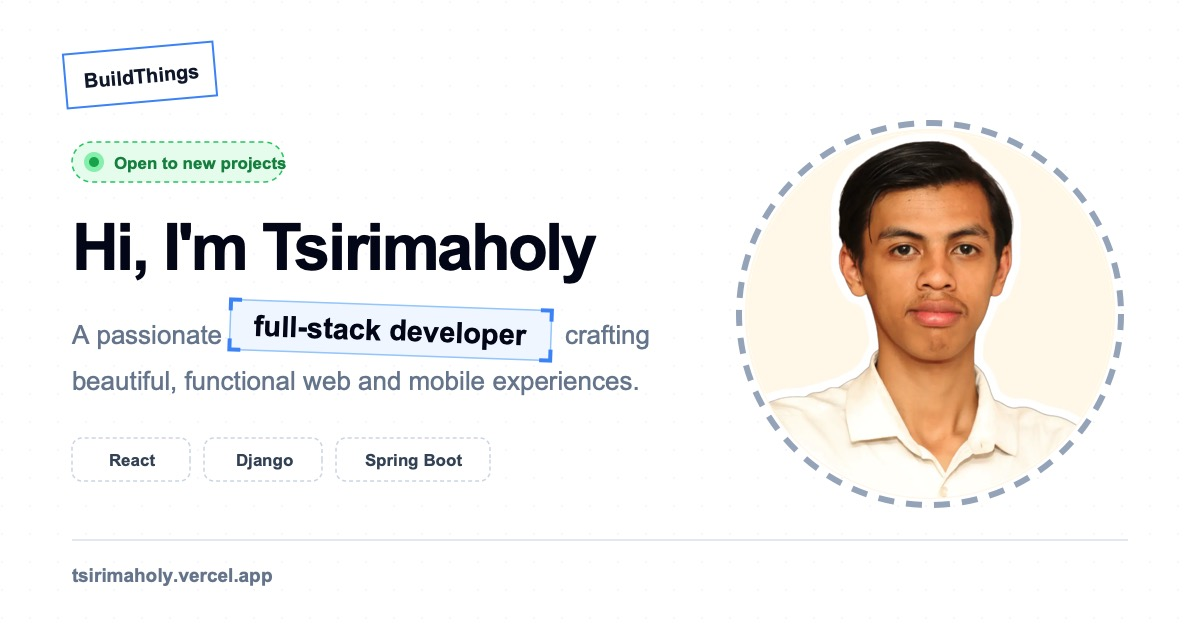
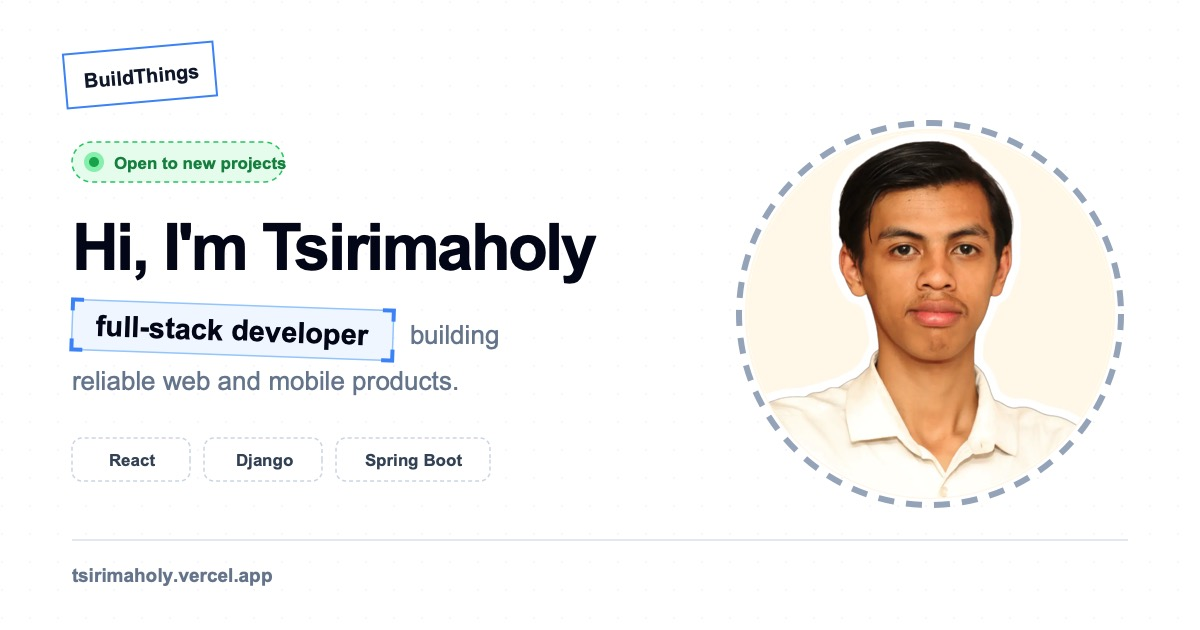
feat: refresh hero positioning and visual hierarchy

Changed region(s): [[0.0617, 0.4524, 0.555, 0.6333]]

diff --git a/app/components/Hero.tsx b/app/components/Hero.tsx
@@ -4,14 +4,25 @@ import {
 	FileDown,
 	Github,
 	Linkedin,
-	Mail,
 	MousePointer2,
 } from "lucide-react";
 import { motion } from "motion/react";
 import { useEffect, useRef, useState } from "react";
-import { FaXTwitter } from "react-icons/fa6";
 import { Link } from "react-router";
 import { Button } from "~/components/ui/button";
+
+const contacts = [
+	{
+		href: "https://github.com/Tsirimaholy",
+		icon: Github,
+		label: "GitHub",
+	},
+	{
+		href: "https://linkedin.com/in/tsirimaholy",
+		icon: Linkedin,
+		label: "LinkedIn",
+	},
+];
 
 export function Hero() {
 	const [resumeMenuOpen, setResumeMenuOpen] = useState(false);
@@ -39,123 +50,74 @@ export function Hero() {
 			document.removeEventListener("keydown", onKey);
 		};
 	}, [resumeMenuOpen]);
-	const contacts = [
-		{
-			href: "https://github.com/Tsirimaholy",
-			icon: Github,
-			label: "GitHub",
-		},
-		{
-			href: "https://linkedin.com/in/tsirimaholy",
-			icon: Linkedin,
-			label: "LinkedIn",
-		},
-		{
-			href: "mailto:tsirimaholy.h@gmail.com",
-			icon: Mail,
-			label: "Email",
-		},
-		{
-			href: "https://x.com/tsirimaholy",
-			icon: FaXTwitter,
-			label: "X",
-		},
-	];
 	return (
 		<section
 			id="hero"
-			className="relative flex min-h-screen flex-col items-center justify-center overflow-hidden pt-24 md:pt-0"
+			className="relative flex min-h-[100svh] items-center overflow-hidden px-6 pt-28 pb-16 md:pt-32 md:pb-20"
 		>
-			{/* Animated gradient background */}
-			{/* <div className="absolute inset-0 bg-gradient-to-br from-background via-primary/10 to-green-400/10 animate-gradient" /> */}
-
-			{/* Subtle animated circles */}
-			{/* <div className="absolute -top-40 -right-40 h-96 w-96 rounded-full bg-primary/20 blur-3xl animate-pulse" /> */}
-			{/* <div className="absolute -bottom-40 -left-40 h-96 w-96 rounded-full bg-green-500/20 blur-3xl animate-pulse delay-700" /> */}
-
-			<div className="relative flex flex-col-reverse md:flex-row items-center px-6">
-				{/* Text Content */}
+			<div
+				className="pointer-events-none absolute inset-0 opacity-40"
+				style={{
+					backgroundImage:
+						"radial-gradient(circle at center, rgb(148 163 184 / 0.22) 1px, transparent 1px)",
+					backgroundSize: "28px 28px",
+				}}
+			/>
+			<div className="relative mx-auto grid min-w-0 w-full max-w-6xl items-center gap-14 lg:grid-cols-[minmax(0,1fr)_23rem] lg:gap-20">
 				<motion.div
 					initial={{ x: -20 }}
-					animate={{ opacity: 1, x: 0 }}
-					transition={{ duration: 0.3 }}
-					className="flex flex-col items-center md:items-start text-center md:text-left space-y-6"
+					animate={{ x: 0 }}
+					transition={{ duration: 0.45 }}
+					className="flex min-w-0 w-full flex-col items-center text-center lg:items-start lg:text-left"
 				>
-					<div className="relative">
-						<h1 className="text-4xl font-extrabold tracking-tighter sm:text-5xl md:text-6xl lg:text-7xl leading-tight font-shadow-into-light">
-							Hi, I'm <span>Tsirimaholy</span>
-						</h1>
-						<OportunitieOpeningBadge />
-					</div>
+					<AvailabilityBadge />
+					<h1 className="mt-6 max-w-full text-4xl font-extrabold leading-[0.95] tracking-[-0.055em] text-slate-950 font-shadow-into-light sm:text-6xl lg:text-7xl">
+						Hi, I'm <span className="block sm:inline">Tsirimaholy.</span>
+					</h1>
 
 					<motion.div
-						initial={{ opacity: 1, y: 20 }}
-						animate={{ opacity: 1, y: 0 }}
+						initial={{ y: 16 }}
+						animate={{ y: 0 }}
 						transition={{ duration: 0.6, delay: 0.2 }}
-						className="max-w-[600px] text-lg text-muted-foreground sm:text-xl"
+						className="mt-7 w-full max-w-2xl text-xl leading-relaxed text-slate-600 sm:text-2xl"
 					>
-						A passionate{" "}
 						<motion.div
-							initial={{ opacity: 0, y: 20 }}
-							animate={{ opacity: 1, y: 0 }}
-							transition={{ duration: 0.6, delay: 1 }}
-							className="relative inline-block p-1 mr-2 border border-blue-400/20 bg-blue-400/10 rotate-4"
+							initial={{ rotate: -2 }}
+							animate={{ rotate: 1 }}
+							transition={{ duration: 0.45, delay: 0.55 }}
+							className="relative mx-auto mb-2 block w-fit border border-blue-300 bg-blue-50 px-2 py-0.5 text-slate-950 sm:mr-2 sm:mb-0 sm:inline-block"
 						>
 							<div className="absolute -top-0.5 -left-0.5 border-t-3 border-l-3 border-blue-400 w-3 h-3"></div>
 							<div className="absolute -bottom-0.5 -right-0.5 border-b-3 border-r-3 border-blue-400 w-3 h-3"></div>
 							<div className="absolute -top-0.5 -right-0.5 border-t-3 border-r-3 border-blue-400 w-3 h-3"></div>
 							<div className="absolute -bottom-0.5 -left-0.5 border-b-3 border-l-3 border-blue-400 w-3 h-3"></div>
-							<strong className="md:text-2xl decoration-2 text-black">
-								full-stack developer
-							</strong>{" "}
-							<MousePointer2 className="absolute right-0 text-black" />
+							<strong>Full-stack developer</strong>
+							<MousePointer2 className="absolute -right-3 -bottom-4 h-5 w-5 text-slate-950" />
 						</motion.div>
-						crafting beautiful and functional web experiences.
-						{/* <Pencil size={17} className="ml-1 inline animate-bounce [animation-duration:2s]" /> */}
+						building reliable web and mobile products.
 					</motion.div>
 
-					{/* Social Links */}
-					<motion.div
-						initial={{ opacity: 0, y: 20 }}
-						animate={{ opacity: 1, y: 0 }}
-						transition={{ duration: 0.6, delay: 0.4 }}
-						className="flex gap-4"
-					>
-						{contacts.map(({ href, icon: Icon, label }) => (
-							<Button
-								key={href}
-								variant="outline"
-								size="icon"
-								className="shadow-2xl  hover:scale-110 hover:shadow-lg hover:shadow-primary/20 transition-all duration-300 backdrop-blur-sm sketchy-border-sm shadow-sketchy-md"
-								asChild
-							>
-								<Link
-									to={href}
-									target="_blank"
-									rel="noopener noreferrer"
-									aria-label={label}
-								>
-									<Icon className="h-5 w-5" />
-								</Link>
-							</Button>
-						))}
-					</motion.div>
+					<p className="mt-5 w-full max-w-xl text-base leading-7 text-slate-600 sm:text-lg">
+						I help startups launch MVPs, improve existing platforms, and solve
+						performance problems with React, Django, Spring Boot, and AWS.
+					</p>
 
-					<div className="flex gap-4 mt-10">
+					<div className="mt-8 flex flex-wrap items-center justify-center gap-3 lg:justify-start">
 						<motion.div
-							initial={{ opacity: 0, y: 20 }}
-							animate={{ opacity: 1, y: 0 }}
-							transition={{ duration: 0.6, delay: 0.6 }}
-							className="flex items-center gap-4"
+							initial={{ y: 20 }}
+							animate={{ y: 0 }}
+							transition={{ duration: 0.6, delay: 0.4 }}
+							className="flex flex-wrap items-center justify-center gap-3 lg:justify-start"
 						>
-							<Button asChild size="lg">
+							<Button asChild size="lg" className="shadow-sketchy-md">
 								<Link to="#contact">
-									Let's work together
+									Start a project
 									<ArrowDown className="animate-bounce" size={18} />
 								</Link>
 							</Button>
 							<div className="relative" ref={resumeMenuRef}>
 								<Button
+									size="lg"
 									variant="outline"
 									onClick={() => setResumeMenuOpen((open) => !open)}
 									aria-haspopup="menu"
@@ -195,11 +157,37 @@ export function Hero() {
 							</div>
 						</motion.div>
 					</div>
+
+					<motion.div
+						initial={{ y: 12 }}
+						animate={{ y: 0 }}
+						transition={{ duration: 0.6, delay: 0.55 }}
+						className="mt-7 flex items-center gap-5 text-sm font-medium text-slate-600"
+					>
+						<span className="text-slate-400">Find me on</span>
+						{contacts.map(({ href, icon: Icon, label }) => (
+							<Link
+								key={href}
+								to={href}
+								target="_blank"
+								rel="noopener noreferrer"
+								className="inline-flex items-center gap-1.5 transition-colors hover:text-primary"
+							>
+								<Icon className="h-4 w-4" />
+								{label}
+							</Link>
+						))}
+					</motion.div>
 				</motion.div>
 
-				{/* Profile Photo */}
-				<div className="relative">
-					<div className="w-54 h-54 md:w-60 md:h-60 rounded-full overflow-hidden border-4 border-dashed border-gray-400 shadow-sketchy-lg">
+				<motion.div
+					initial={{ scale: 0.9, rotate: 3 }}
+					animate={{ scale: 1, rotate: 0 }}
+					transition={{ duration: 0.6, delay: 0.15, type: "spring" }}
+					className="relative mx-auto lg:col-start-2 lg:row-start-1"
+				>
+					<div className="absolute inset-3 rounded-full bg-amber-50" />
+					<div className="relative h-64 w-64 overflow-hidden rounded-full border-4 border-dashed border-slate-400 bg-amber-50 shadow-sketchy-lg md:h-72 md:w-72 lg:h-96 lg:w-96">
 						<img
 							src="/tsirimaholy.webp"
 							alt="Tsirimaholy Harison Razanapanala"
@@ -207,41 +195,26 @@ export function Hero() {
 							loading="eager"
 							fetchPriority="high"
 							decoding="async"
-							width="320"
-							height="320"
+							width="384"
+							height="384"
 						/>
 					</div>
-				</div>
+					<div className="absolute -right-3 bottom-8 -rotate-3 border-2 border-slate-900 bg-white px-4 py-2 text-sm font-bold text-slate-900 shadow-sketchy-md">
+						Web · Mobile · APIs
+					</div>
+				</motion.div>
 			</div>
 		</section>
 	);
 }
-function OportunitieOpeningBadge() {
+function AvailabilityBadge() {
 	return (
-		<>
-			<div className="text-sm inline-flex items-center gap-1.5 px-3 py-1 rounded-full border border-dashed border-green-500 font-medium bg-green-300/30 text-green-700">
-				{/* Round dot */}
-				<div className="relative border-green-600/70 bg-green-300 rounded-full manual-ping">
-					{/* <div className="absolute inset-0 rounded-full bg-green-300 manual-ping"></div> */}
-					<div className="size-1.5 bg-green-700 rounded-full z-10 m-0.5"></div>
-				</div>
-				Open to new projects
-			</div>
-			<style>{`
-  			@keyframes manual-ping {
-  				0% {
-  			    transform: scale(1);
-  					opacity: 1;
-  				}
-  				80%, 100% {
-  				  transform: scale(1.7);
-  					opacity: 0.5;
-  				}
-  			}
-  			.manual-ping {
-  				animation: manual-ping 1.2s cubic-bezier(0, 0, 0.2, 1) infinite;
-  			}
-			`}</style>
-		</>
+		<div className="inline-flex items-center gap-2 rounded-full border border-dashed border-green-500 bg-green-100/70 px-3 py-1.5 text-sm font-semibold text-green-700">
+			<span className="relative flex h-2.5 w-2.5">
+				<span className="absolute inline-flex h-full w-full animate-ping rounded-full bg-green-400 opacity-60" />
+				<span className="relative inline-flex h-2.5 w-2.5 rounded-full bg-green-600" />
+			</span>
+			Open to new projects
+		</div>
 	);
 }

diff --git a/app/routes/index.tsx b/app/routes/index.tsx
@@ -46,10 +46,9 @@ export const loader = async ({ request }: Route.LoaderArgs) => {
 };
 
 export const meta: MetaFunction = () => {
-	const title =
-		"Tsirimaholy Harison Razanapanala | Senior Full-Stack Developer";
+	const title = "Tsirimaholy Harison Razanapanala | Full-Stack Developer";
 	const description =
-		"Senior Full-Stack Developer helping startups build MVPs and improve web and mobile products with React, Django, Spring Boot, AWS, and PostgreSQL.";
+		"Full-Stack Developer helping startups launch MVPs, improve web and mobile products, and solve performance problems with React, Django, Spring Boot, and AWS.";
 	const image = `${SITE_URL}/og-image.jpg`;
 
 	// Generate base meta tags
@@ -65,7 +64,7 @@ export const meta: MetaFunction = () => {
 	// Generate structured data for person
 	const personData: StructuredDataPerson = {
 		name: "Tsirimaholy Harison Razanapanala",
-		jobTitle: "Senior Full-Stack Developer",
+		jobTitle: "Full-Stack Developer",
 		description,
 		url: `${SITE_URL}/`,
 		image: `${SITE_URL}/tsirimaholy.webp`,

diff --git a/app/components/Projects.tsx b/app/components/Projects.tsx
@@ -45,7 +45,7 @@ export function Projects() {
 			liveUrl: "https://praticiens.aligneursfrancais.com/notre-logiciel/",
 			githubUrl: "",
 			detailedDescription:
-				"Senior Fullstack Developer at Aligneurs Français, a French health-tech company crafting invisible dental aligners made in France. I build and improve AF Setup, the web and mobile platform (iOS/Android) that dentists and orthodontists use to manage their patients' aligner treatments end to end, and AF Academy, the e-learning platform for practitioners.",
+				"Full-Stack Developer at Aligneurs Français, a French health-tech company crafting invisible dental aligners made in France. I build and improve AF Setup, the web and mobile platform (iOS/Android) that dentists and orthodontists use to manage their patients' aligner treatments end to end, and AF Academy, the e-learning platform for practitioners.",
 			features: [
 				"Patient and treatment management with follow-up tracking",
 				"3D visualization of dental setups",

diff --git a/app/components/NavBar.tsx b/app/components/NavBar.tsx
@@ -168,7 +168,7 @@ export function Navbar() {
 										setIsMenuOpen(false);
 									}}
 								>
-									Let's talk
+									Start a project
 								</NavLink>
 							</li>
 						</ul>
@@ -177,7 +177,7 @@ export function Navbar() {
 				<Button asChild className="hidden md:block">
 					<Link key={"talk-to-me"} to={`${href("/")}#contact`}>
 						<div className="size-2 bg-white rounded-full inline-block mr-2"></div>
-						<strong>Let's talk</strong>
+						<strong>Start a project</strong>
 					</Link>
 				</Button>
 			</nav>

diff --git a/app/routes/blogs.tsx b/app/routes/blogs.tsx
@@ -9,7 +9,7 @@ export function meta(_args: Route.MetaArgs) {
 			"Engineering notes and product development lessons from Tsirimaholy. Articles are coming soon.",
 		url: `${SITE_URL}/blog`,
 		image: `${SITE_URL}/og-image.jpg`,
-		imageAlt: "Tsirimaholy Harison Razanapanala, Senior Full-Stack Developer",
+		imageAlt: "Tsirimaholy Harison Razanapanala, Full-Stack Developer",
 		noIndex: true,
 	});
 }

diff --git a/app/lib/seo.ts b/app/lib/seo.ts
@@ -330,7 +330,7 @@ export const DEFAULT_SEO_CONFIG: Partial<SEOConfig> = {
 	author: "Tsirimaholy Harison Razanapanala",
 	twitterHandle: "@tsirimaholy",
 	keywords: [
-		"senior full-stack developer",
+		"full-stack developer",
 		"freelance developer",
 		"MVP development",
 		"React developer",
